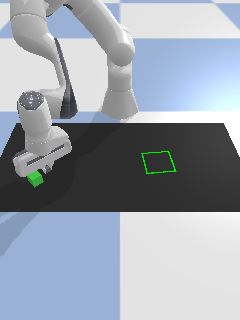
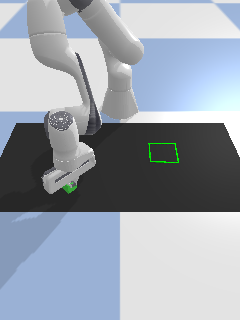
Aug 10, 2025, 1:01 PM

diff --git a/Gripper_Robot_Sim/block_pushing/block_picking3.py b/Gripper_Robot_Sim/block_pushing/block_picking3.py
@@ -63,7 +63,7 @@ class BlockPick(gym.Env):
     control_frequency=10.0,
     image_size=np.array([320, 240]),
     shared_memory=False, 
-    seed=44,
+    seed=45,
     goal_dist_tolerance=0.01,
     effector_height=None,
     visuals_mode="default",
@@ -511,7 +511,7 @@ class BlockPick(gym.Env):
             print("effector_translation", np.array(p_state["effector_translation"]))
             
             force = 2
-            f_target_block = target_block_pos + np.array([0, 0, 0.1])
+            f_target_block = target_block_pos + np.array([0, 0, 0.01])
             self._robot.move_gripper_to_target( f_target_block, target_block_ori, force)
             for _ in range(50):
                 time.sleep(1 / 240.0)
